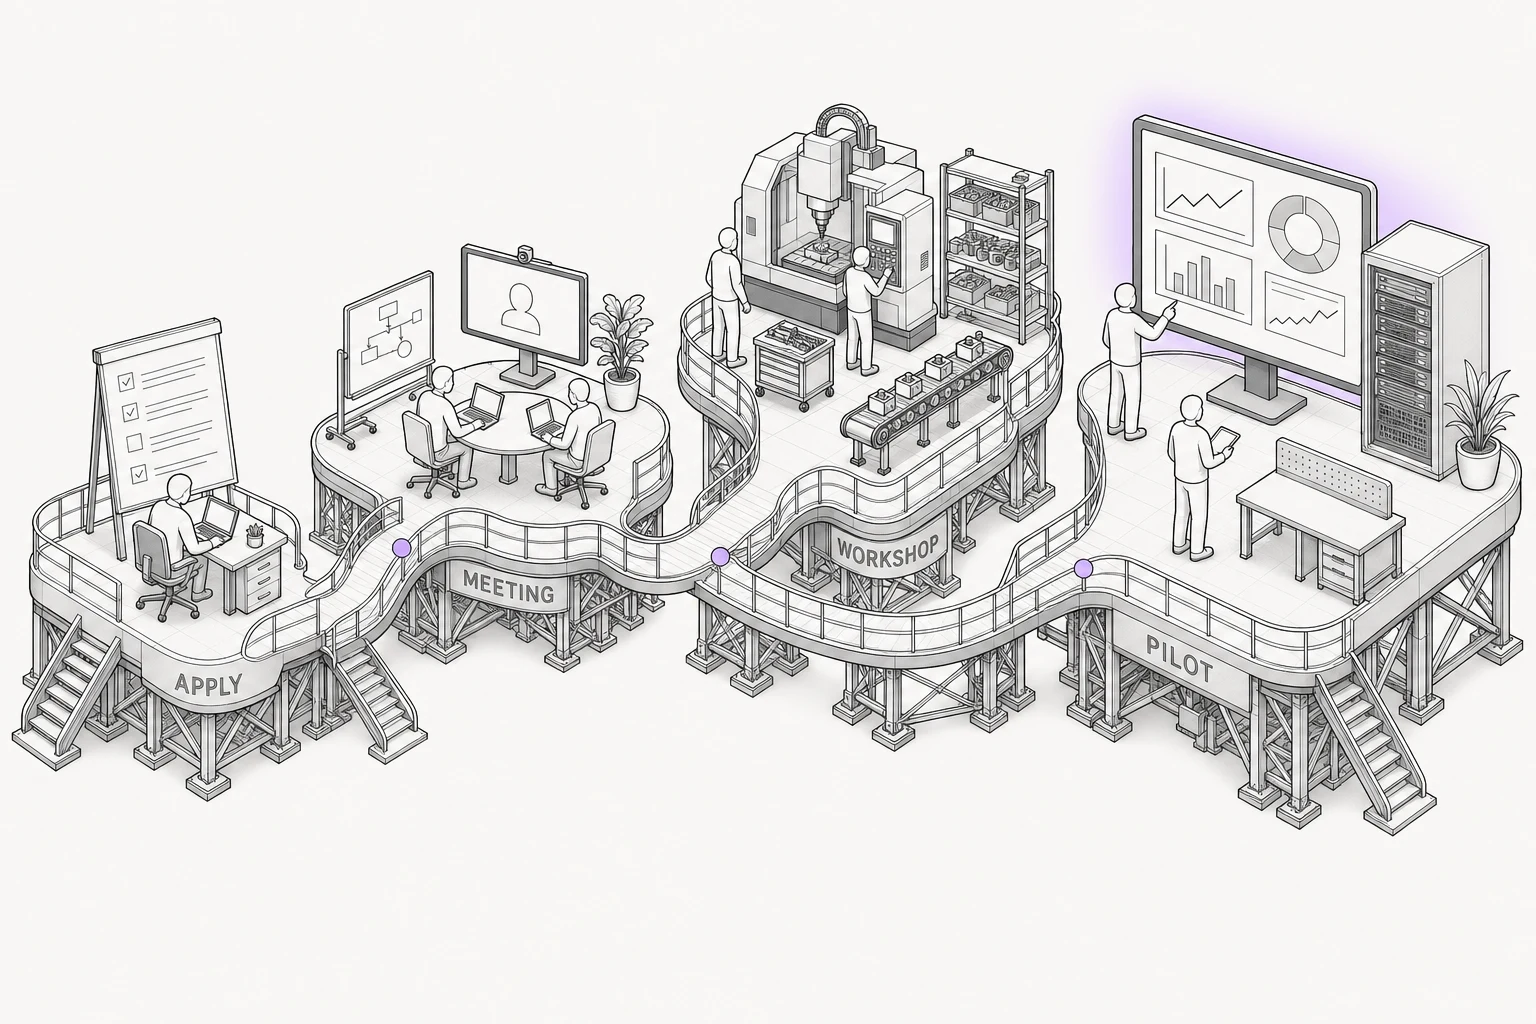
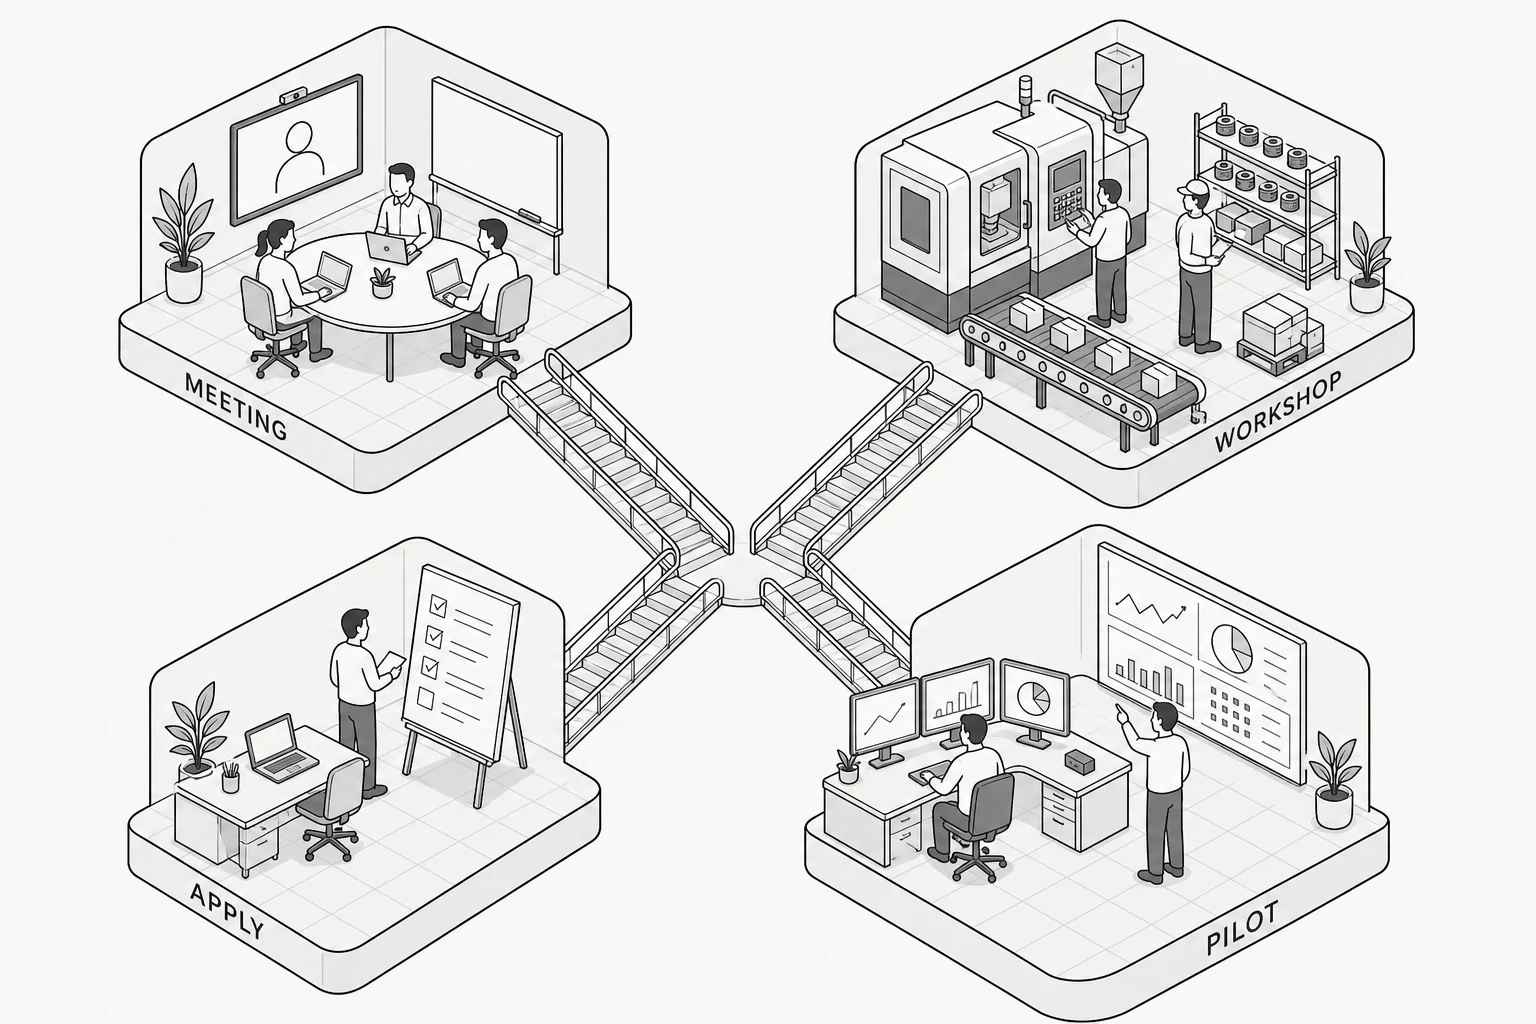
fix: 프로세스 여정 이미지 — 레퍼런스 구도(마름모 4룸+중앙 에스컬레이터) 완전 모노크롬으로 재제작

diff --git a/talos/index.html b/talos/index.html
@@ -315,7 +315,7 @@
         <p class="overline reveal">Process</p>
         <h2 class="reveal">신청부터 파일럿까지,<br /><strong>군더더기 없이</strong></h2>
         <div class="section-visual reveal">
-          <img src="/assets/journey.webp" alt="4단계 여정 아이소메트릭 도식 — APPLY·MEETING·WORKSHOP·PILOT 라벨이 붙은 4개 플랫폼이 구름다리로 이어짐" width="1536" height="1024" loading="lazy" />
+          <img src="/assets/journey.webp" alt="4단계 여정 아이소메트릭 도식 — APPLY·MEETING·WORKSHOP·PILOT 4개 룸 플레이트가 중앙 에스컬레이터 통로로 연결됨" width="1536" height="1024" loading="lazy" />
         </div>
         <ol class="timeline reveal">
           <li>
